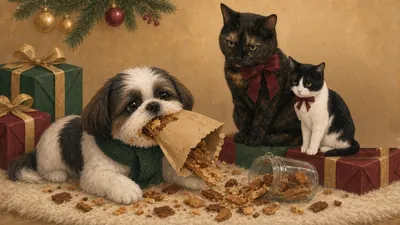
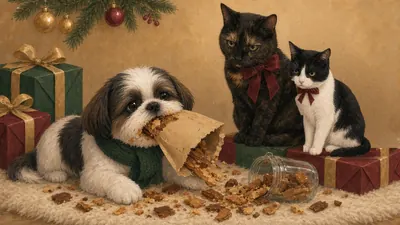
Gifts for pets: Premium treats, Lilou enlarged to ~82% of Lili's height (manual edit from original source, no generation); treats webp v=20261126d

Changed region(s): [[0.72, 0.1867, 0.93, 0.7156]]

diff --git a/site/products/gifts/index.html b/site/products/gifts/index.html
@@ -448,7 +448,7 @@ if(document.readyState==='loading')document.addEventListener('DOMContentLoaded',
 <circle fill="url(#d-b-gold)" stroke="#0b1719" stroke-width="1" cx="30" cy="84" r="11"/>
 <path fill="none" stroke="#f5ecd6" stroke-width="1.0" opacity=".85" d="M19.4 85.3 Q30 88.6 40.6 85.3"/>
 <ellipse fill="#fff" opacity=".45" cx="25.8" cy="79.8" rx="2.2" ry="1.4" transform="rotate(-35 25.8 79.8)"/></g></svg>
-<figure class="g-band-pic"><img src="../../img/gifts/gifts-band-treats-720.webp?v=20261126c" srcset="../../img/gifts/gifts-band-treats-400.webp?v=20261126c 400w, ../../img/gifts/gifts-band-treats-720.webp?v=20261126c 720w" sizes="(max-width:720px) 90vw, 330px" width="720" height="405" alt="Future the shih tzu greedily devours a spilled pouch and jar of treats while Lili the tortoiseshell cat and Lilou the black-and-white cat stare down at him, unimpressed." loading="lazy" decoding="async"></figure>
+<figure class="g-band-pic"><img src="../../img/gifts/gifts-band-treats-720.webp?v=20261126d" srcset="../../img/gifts/gifts-band-treats-400.webp?v=20261126d 400w, ../../img/gifts/gifts-band-treats-720.webp?v=20261126d 720w" sizes="(max-width:720px) 90vw, 330px" width="720" height="405" alt="Future the shih tzu greedily devours a spilled pouch and jar of treats while Lili the tortoiseshell cat and Lilou the black-and-white cat stare down at him, unimpressed." loading="lazy" decoding="async"></figure>
 </div>
 <p class="g-blurb">Short, honest ingredient lists for dogs and cats. A treat is a treat, not a meal.</p>
 <div class="g-grid">

diff --git a/static/products/gifts/index.html b/static/products/gifts/index.html
@@ -448,7 +448,7 @@ if(document.readyState==='loading')document.addEventListener('DOMContentLoaded',
 <circle fill="url(#d-b-gold)" stroke="#0b1719" stroke-width="1" cx="30" cy="84" r="11"/>
 <path fill="none" stroke="#f5ecd6" stroke-width="1.0" opacity=".85" d="M19.4 85.3 Q30 88.6 40.6 85.3"/>
 <ellipse fill="#fff" opacity=".45" cx="25.8" cy="79.8" rx="2.2" ry="1.4" transform="rotate(-35 25.8 79.8)"/></g></svg>
-<figure class="g-band-pic"><img src="../../img/gifts/gifts-band-treats-720.webp?v=20261126c" srcset="../../img/gifts/gifts-band-treats-400.webp?v=20261126c 400w, ../../img/gifts/gifts-band-treats-720.webp?v=20261126c 720w" sizes="(max-width:720px) 90vw, 330px" width="720" height="405" alt="Future the shih tzu greedily devours a spilled pouch and jar of treats while Lili the tortoiseshell cat and Lilou the black-and-white cat stare down at him, unimpressed." loading="lazy" decoding="async"></figure>
+<figure class="g-band-pic"><img src="../../img/gifts/gifts-band-treats-720.webp?v=20261126d" srcset="../../img/gifts/gifts-band-treats-400.webp?v=20261126d 400w, ../../img/gifts/gifts-band-treats-720.webp?v=20261126d 720w" sizes="(max-width:720px) 90vw, 330px" width="720" height="405" alt="Future the shih tzu greedily devours a spilled pouch and jar of treats while Lili the tortoiseshell cat and Lilou the black-and-white cat stare down at him, unimpressed." loading="lazy" decoding="async"></figure>
 </div>
 <p class="g-blurb">Short, honest ingredient lists for dogs and cats. A treat is a treat, not a meal.</p>
 <div class="g-grid">
